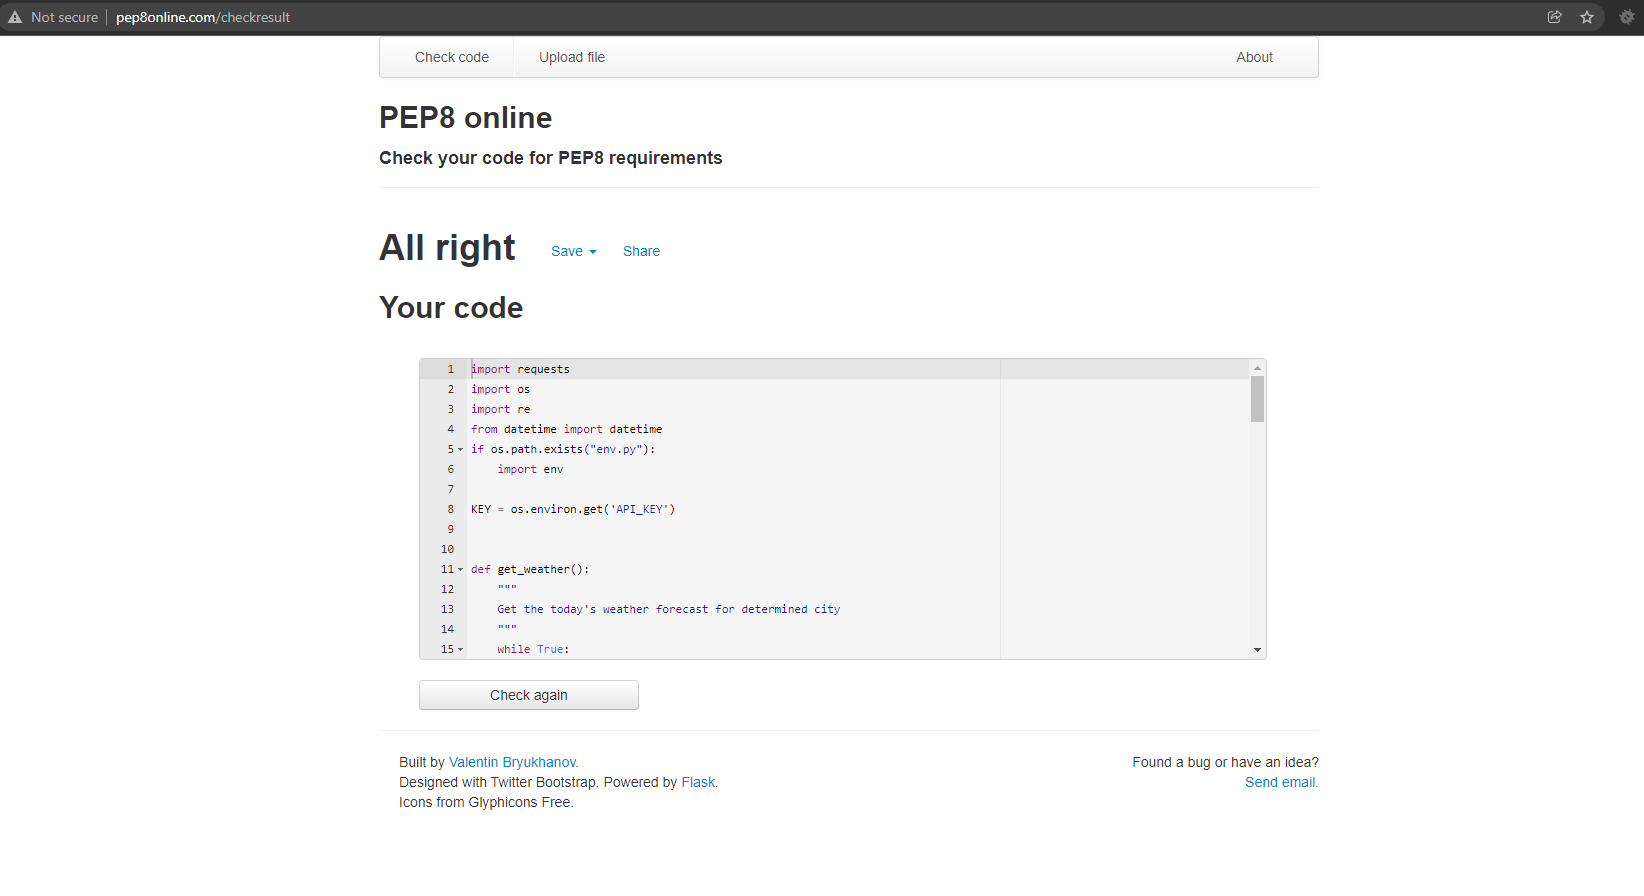
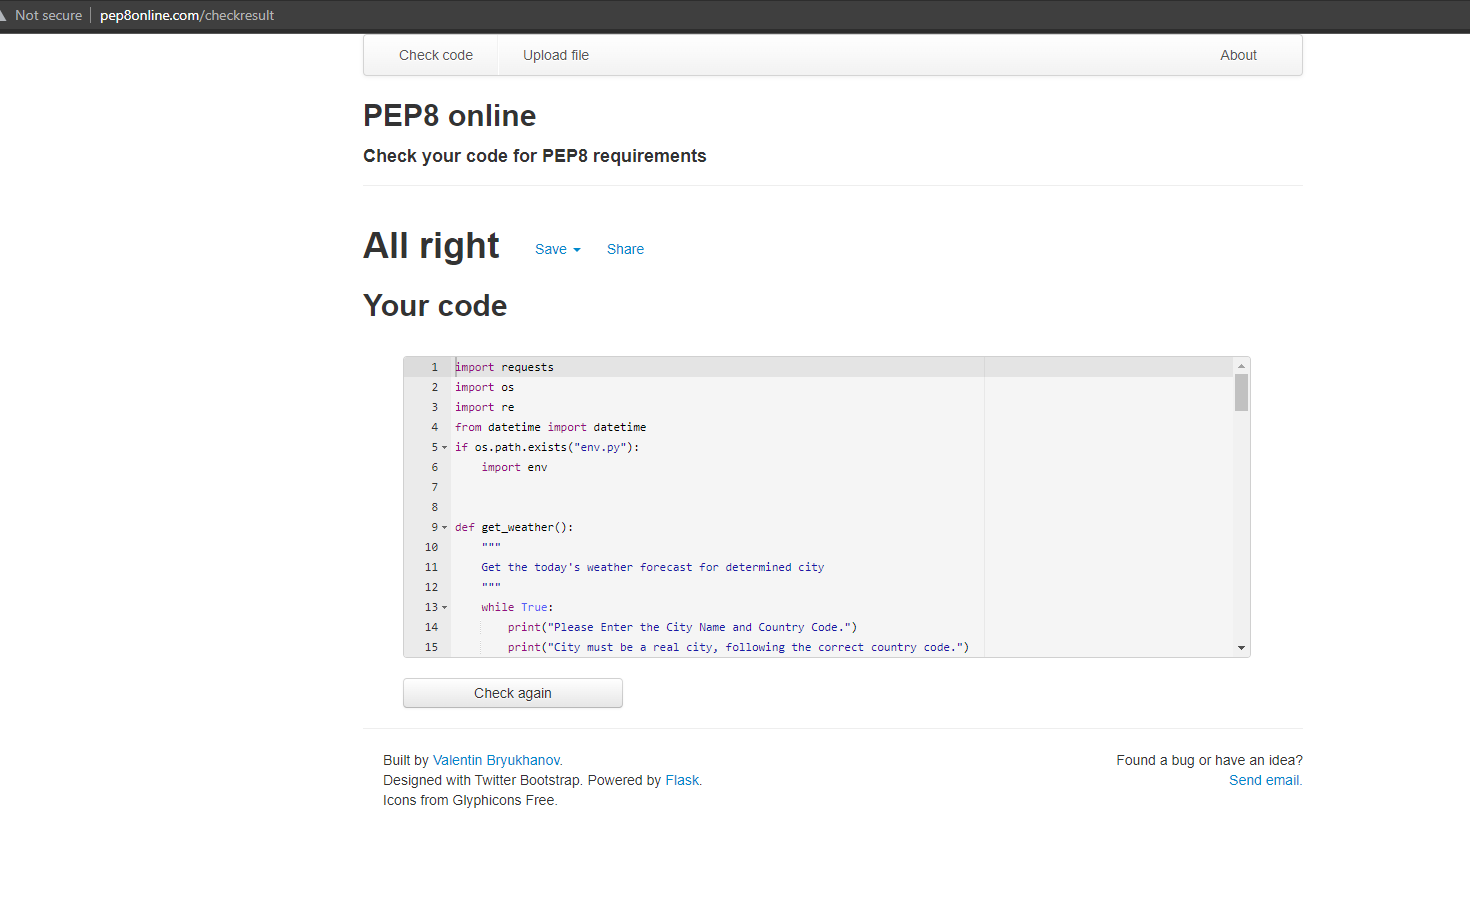
Add extra lines to prepare deploy

diff --git a/run.py b/run.py
@@ -12,11 +12,11 @@ def get_weather():
     """
     while True:
         print("Please Enter the City Name and Country Code.")
-        print("The city must be a real city, following the correct country code.")
-        print("Example: City -> London, Country -> GB")
+        print("City must be a real city, following the correct country code.")
+        print("Example: City -> London, Country -> GB\n")
 
-        city = input("Enter the city name: ")
-        country = input("Enter the country CODE: ")
+        city = input("Enter the city name:\n ")
+        country = input("Enter the country CODE:\n ")
 
         if input_validation(city, country):
             data = api_request(city, country)
@@ -38,7 +38,7 @@ def validate_city(data, country, city):
         print("Please insert a valid Country CODE with 2 letters")
         print("The country code and city need match")
         print("Example: DUBLIN - IE for city Dublin and country Ireland")
-        print("***********************************************")
+        print("***********************************************\n")
         return False
     return True
 
@@ -102,5 +102,5 @@ def render(data):
     print(f"Current Wind Speed------------> {wind_speed} kmph")
 
 
-print("Check the today's weather in your city")
+print("Check the today's weather in your city\n")
 get_weather()
